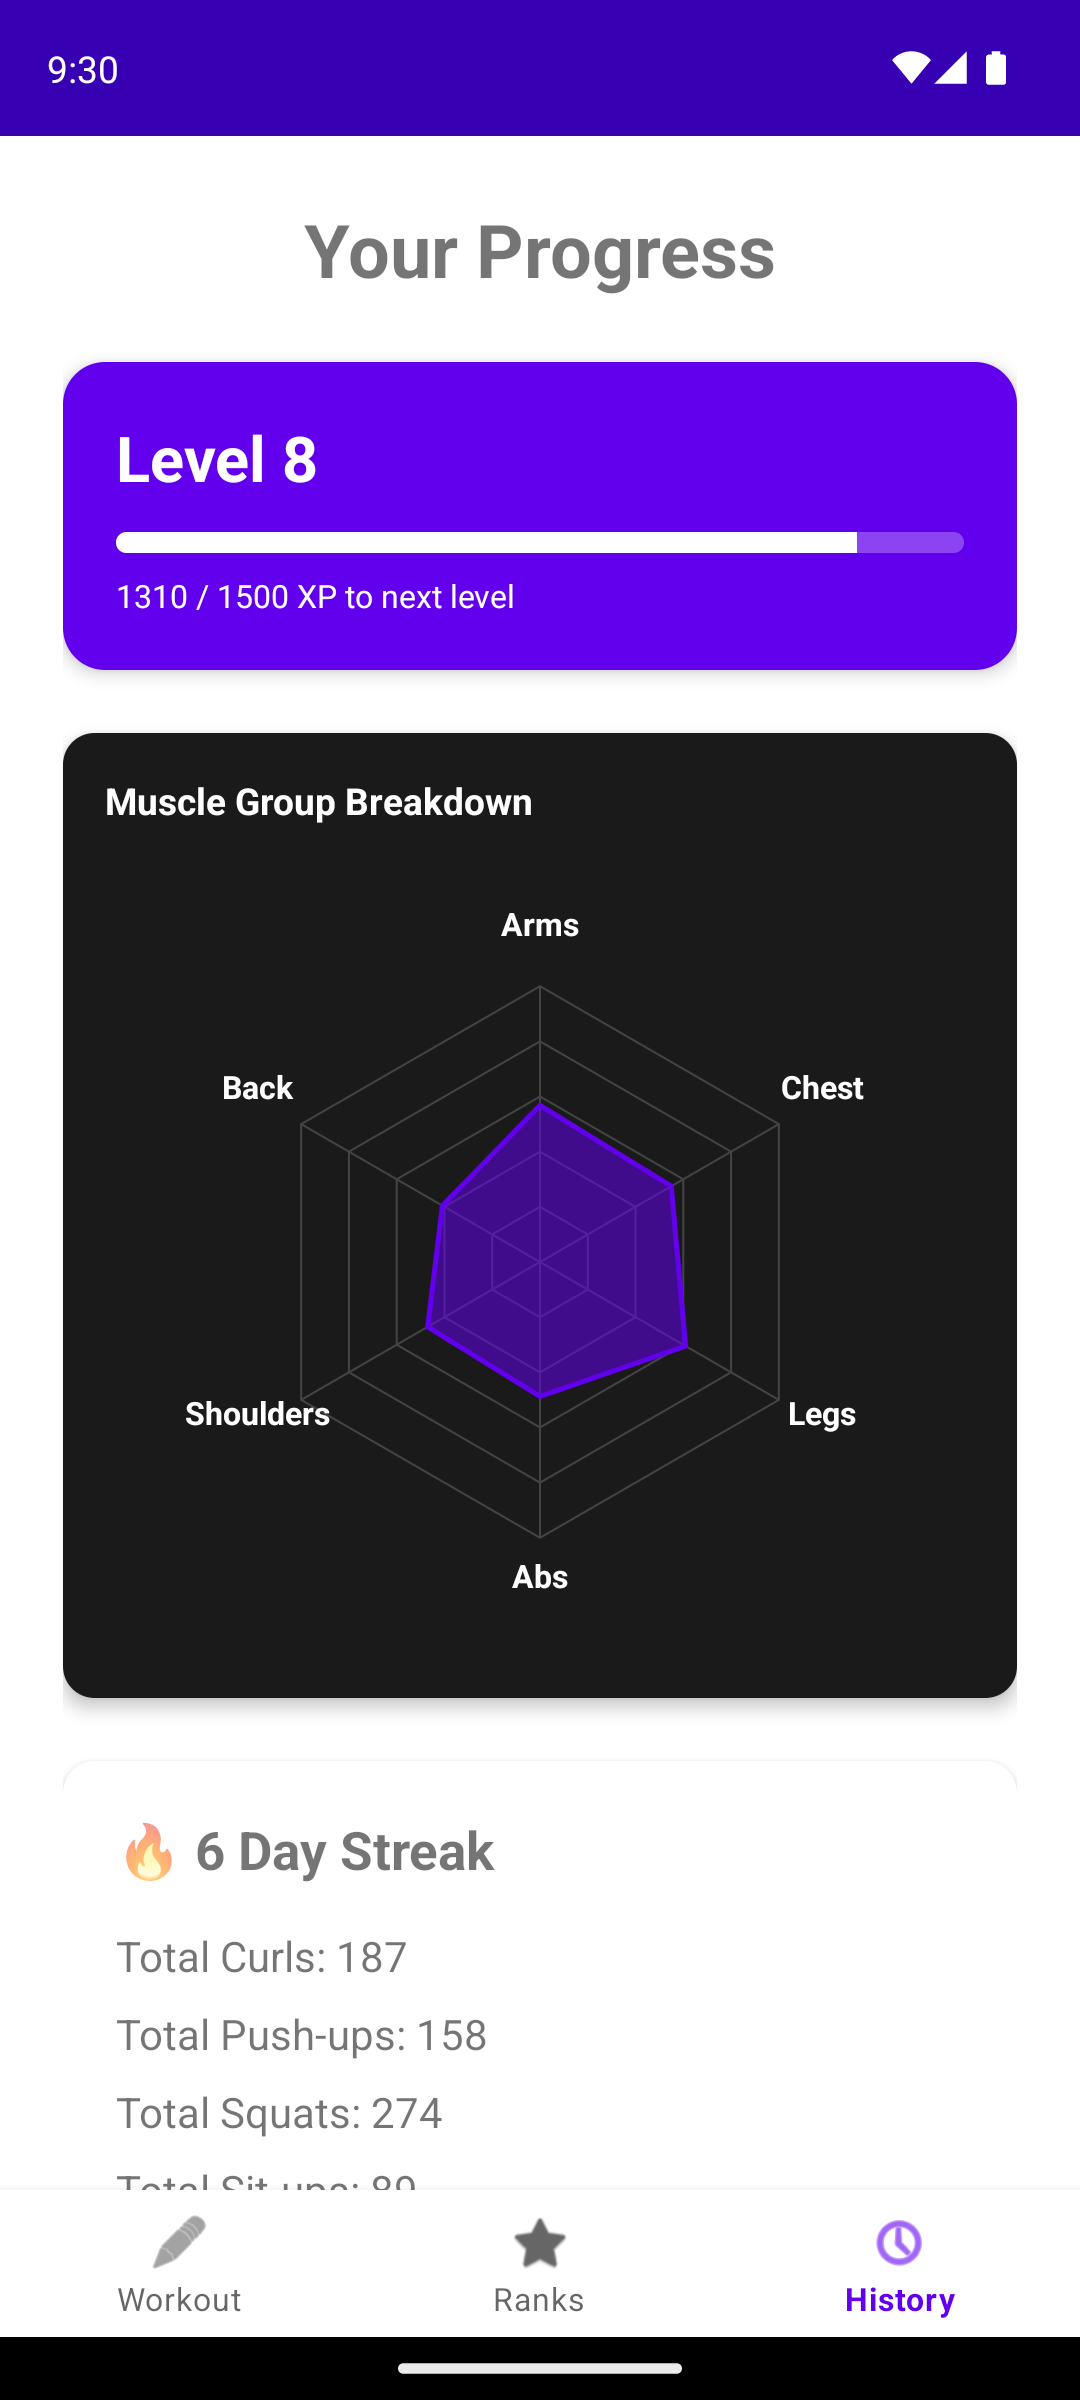
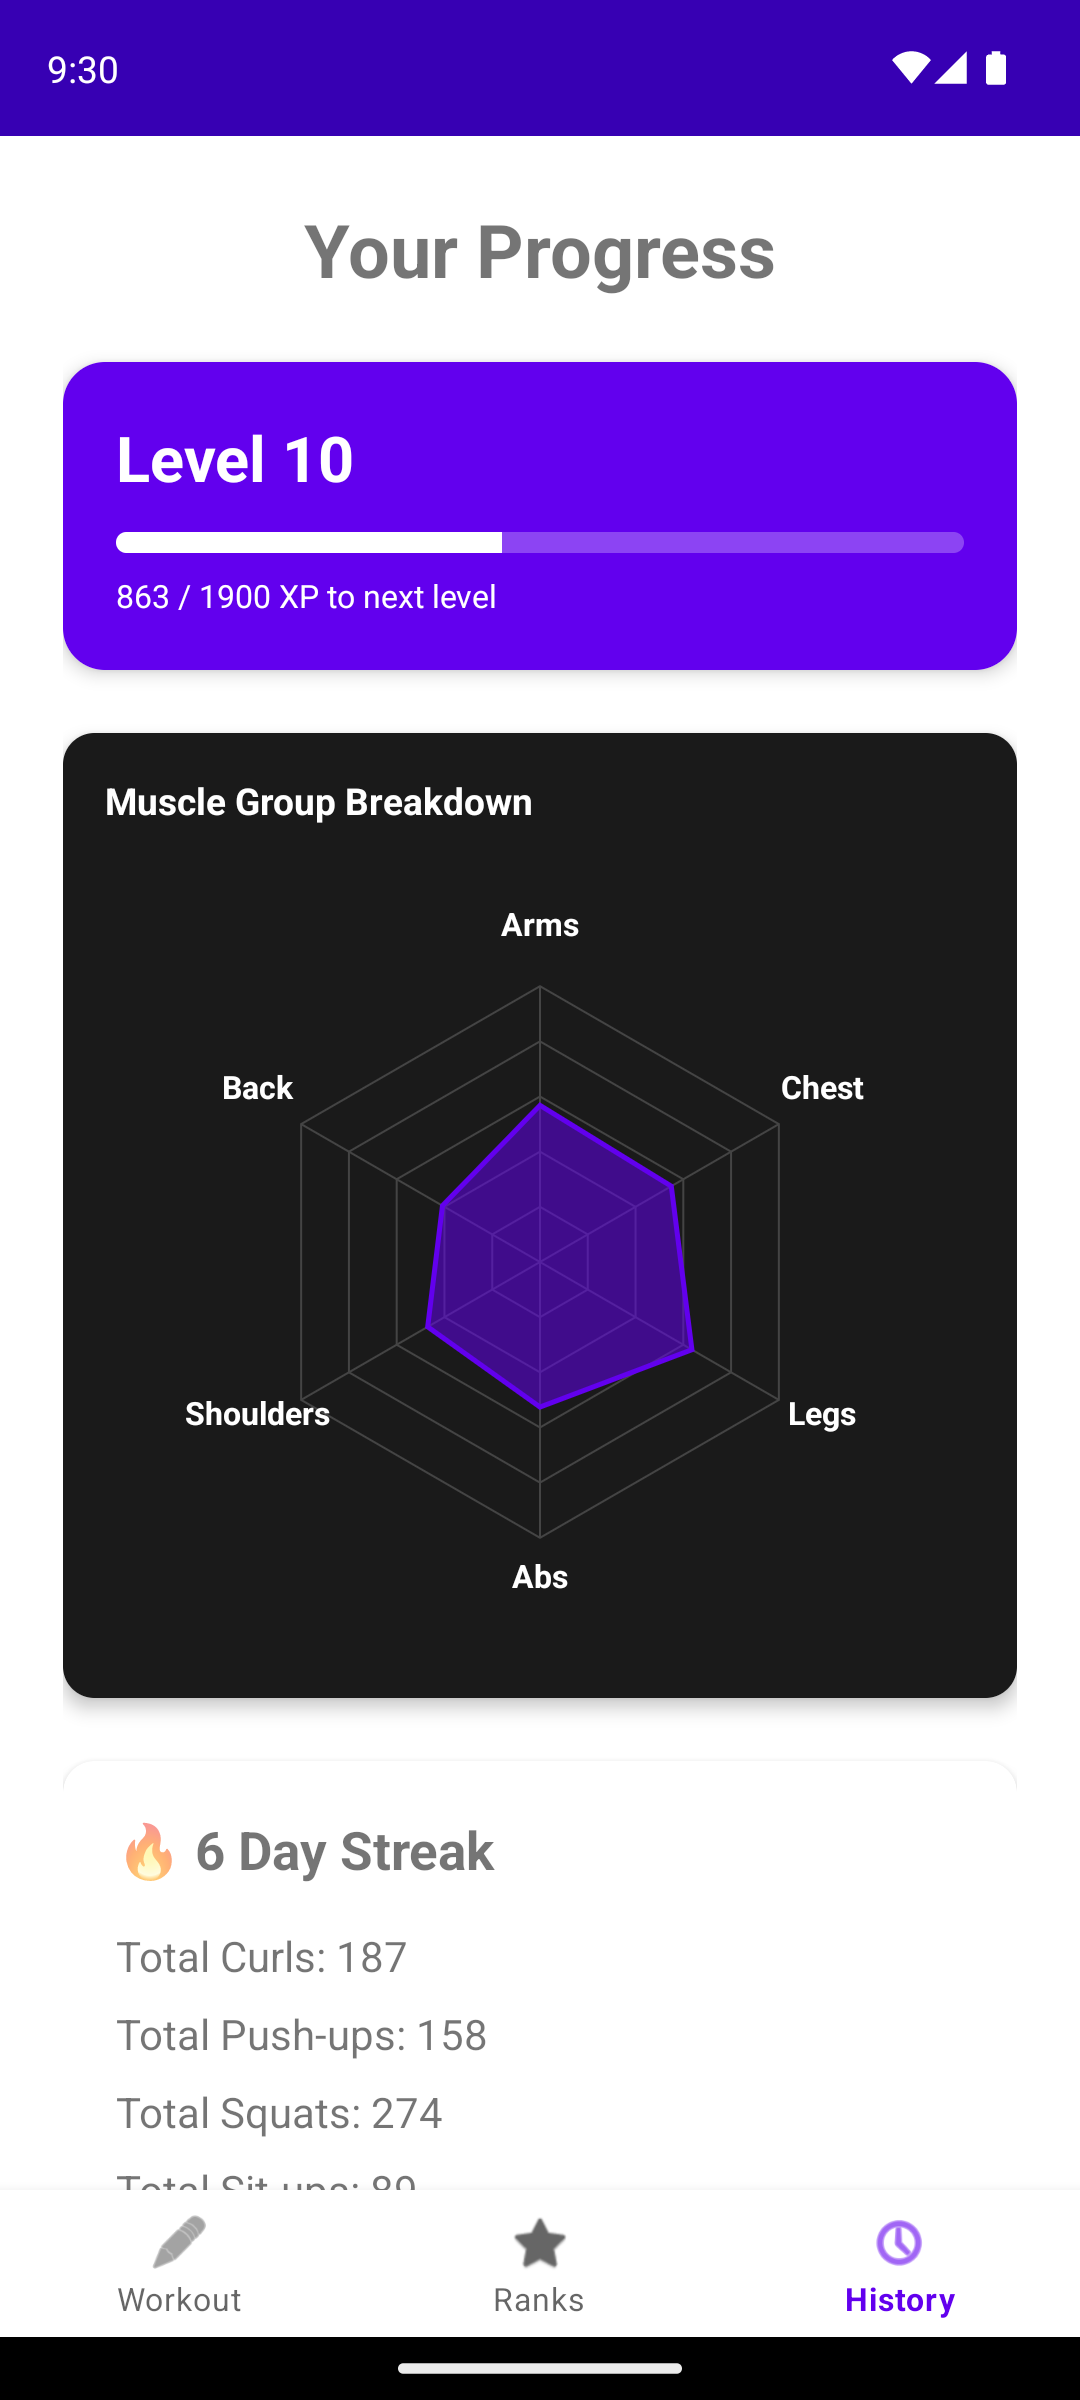
Fix summary crash, height input, and jacks/lunges/plank tracking

diff --git a/app/src/main/java/com/example/exercisetracker/HomeActivity.kt b/app/src/main/java/com/example/exercisetracker/HomeActivity.kt
@@ -2,6 +2,7 @@ package com.example.exercisetracker
 
 import android.content.Context
 import android.content.Intent
+import android.content.SharedPreferences
 import android.os.Bundle
 import android.widget.Button
 import android.widget.RadioButton
@@ -13,6 +14,7 @@ import com.google.android.material.textfield.TextInputEditText
 import com.google.firebase.auth.FirebaseAuth
 import com.google.firebase.firestore.FieldValue
 import com.google.firebase.firestore.FirebaseFirestore
+import kotlin.math.roundToInt
 
 class HomeActivity : AppCompatActivity() {
     private lateinit var auth: FirebaseAuth
@@ -27,7 +29,8 @@ class HomeActivity : AppCompatActivity() {
 
         val usernameInput = findViewById<TextInputEditText>(R.id.usernameInput)
         val weightInput = findViewById<TextInputEditText>(R.id.weightInput)
-        val heightInput = findViewById<TextInputEditText>(R.id.heightInput)
+        val heightFeetInput = findViewById<TextInputEditText>(R.id.heightFeetInput)
+        val heightInchesInput = findViewById<TextInputEditText>(R.id.heightInchesInput)
         val ageInput = findViewById<TextInputEditText>(R.id.ageInput)
         val genderGroup = findViewById<RadioGroup>(R.id.genderGroup)
 
@@ -39,7 +42,9 @@ class HomeActivity : AppCompatActivity() {
         val sharedPrefs = getSharedPreferences("UserProfile", Context.MODE_PRIVATE)
         auth.currentUser?.let { usernameInput.setText(Username.get(this, it.uid)) }
         weightInput.setText(sharedPrefs.getString("WEIGHT", "130"))
-        heightInput.setText(sharedPrefs.getString("HEIGHT", "5.6"))
+        val (savedFeet, savedInches) = loadHeight(sharedPrefs)
+        heightFeetInput.setText(savedFeet)
+        heightInchesInput.setText(savedInches)
         ageInput.setText(sharedPrefs.getString("AGE", "18"))
         val savedGender = sharedPrefs.getString("GENDER", "male")
         if (savedGender == "female") {
@@ -76,11 +81,15 @@ class HomeActivity : AppCompatActivity() {
 
         nextButton.setOnClickListener {
             val weightStr = weightInput.text.toString()
-            val heightStr = heightInput.text.toString()
+            val feetStr = heightFeetInput.text.toString()
+            val inchesStr = heightInchesInput.text.toString()
             val ageStr = ageInput.text.toString()
 
             val weight = weightStr.toFloatOrNull() ?: 130f
-            val height = heightStr.toFloatOrNull() ?: 5.6f
+            val feet = feetStr.toIntOrNull() ?: 5
+            val inches = (inchesStr.toIntOrNull() ?: 0).coerceIn(0, 11)
+            // MainActivity takes height as decimal feet
+            val height = feet + inches / 12f
             val age = ageStr.toIntOrNull() ?: 18
 
             val selectedGenderId = genderGroup.checkedRadioButtonId
@@ -89,7 +98,9 @@ class HomeActivity : AppCompatActivity() {
             // Save values for next time
             sharedPrefs.edit().apply {
                 putString("WEIGHT", weightStr)
-                putString("HEIGHT", heightStr)
+                putString("HEIGHT_FT", feetStr)
+                putString("HEIGHT_IN", inchesStr)
+                remove("HEIGHT")
                 putString("AGE", ageStr)
                 putString("GENDER", gender)
                 apply()
@@ -117,6 +128,17 @@ class HomeActivity : AppCompatActivity() {
         }
     }
 
+    // Height used to be one decimal-feet field ("5.6"); older saves are converted to feet + inches
+    private fun loadHeight(prefs: SharedPreferences): Pair<String, String> {
+        val feet = prefs.getString("HEIGHT_FT", null)
+        val inches = prefs.getString("HEIGHT_IN", null)
+        if (feet != null && inches != null) return feet to inches
+
+        val legacyFeet = prefs.getString("HEIGHT", null)?.toFloatOrNull() ?: return "5" to "6"
+        val totalInches = (legacyFeet * 12).roundToInt()
+        return (totalInches / 12).toString() to (totalInches % 12).toString()
+    }
+
     private fun fetchQuickStats() {
         val user = auth.currentUser ?: return
 
@@ -135,6 +157,8 @@ class HomeActivity : AppCompatActivity() {
                     totalReps += (document.getLong("squats") ?: 0).toInt()
                     totalReps += (document.getLong("situps") ?: 0).toInt()
                     totalReps += (document.getLong("overhead") ?: 0).toInt()
+                    totalReps += (document.getLong("jacks") ?: 0).toInt()
+                    totalReps += (document.getLong("lunges") ?: 0).toInt()
 
                     totalCalories += document.getDouble("calories") ?: 0.0
                     scoreSum += (document.getLong("overallScore") ?: 0).toInt()

diff --git a/app/src/main/java/com/example/exercisetracker/MainActivity.kt b/app/src/main/java/com/example/exercisetracker/MainActivity.kt
@@ -85,6 +85,10 @@ class MainActivity : AppCompatActivity(), TextToSpeech.OnInitListener {
     private var lastActiveTime = 0L
     private val HIGHLIGHT_DURATION_MS = 5000L
 
+    // Trackers are updated on MediaPipe's result thread but read by endWorkout() on the UI thread
+    private val trackerLock = Any()
+    @Volatile private var workoutEnded = false
+
     companion object {
         private const val TAG = "LimbDetector"
         private const val REQUEST_CODE_PERMISSIONS = 10
@@ -196,6 +200,16 @@ class MainActivity : AppCompatActivity(), TextToSpeech.OnInitListener {
     }
 
     private fun endWorkout() {
+        if (workoutEnded) return
+        // Stop processing frames, then read tracker state under the same lock the result thread uses
+        workoutEnded = true
+        imageAnalyzer?.clearAnalyzer()
+        val intent = synchronized(trackerLock) { buildSummaryIntent() }
+        startActivity(intent)
+        finish()
+    }
+
+    private fun buildSummaryIntent(): Intent {
         val allReps = mutableListOf<RepResult>()
         allReps.addAll(curlsTracker.sessionReps)
         allReps.addAll(pushUpTracker.sessionReps)
@@ -204,13 +218,9 @@ class MainActivity : AppCompatActivity(), TextToSpeech.OnInitListener {
         allReps.addAll(overheadTracker.sessionReps)
         allReps.addAll(jumpingJackTracker.sessionReps)
         allReps.addAll(lungeTracker.sessionReps)
-        
-        val totalRepsCount = curlsTracker.curlCount + pushUpTracker.pushUpCount + 
-                             squatTracker.squatCount + situpTracker.situpCount + 
-                             overheadTracker.overheadCount + jumpingJackTracker.jackCount + 
-                             lungeTracker.lungeCount + (plankTracker.totalSeconds / 10) // Plank counts as "reps" for score
-        
-        val overallScore = if (totalRepsCount == 0) -1 else allReps.map { it.score }.average().toInt()
+
+        // Plank has no per-rep form score, so a plank-only session is N/A rather than 0%
+        val overallScore = if (allReps.isEmpty()) -1 else allReps.map { it.score }.average().toInt()
 
         val feedbackCountMap = mutableMapOf<String, Int>()
         allReps.forEach { rep ->
@@ -227,7 +237,7 @@ class MainActivity : AppCompatActivity(), TextToSpeech.OnInitListener {
         val feedbackSummary = if (topFeedback.isEmpty()) "Form: Excellent! Keep it up." 
                               else "Top issues: " + topFeedback.joinToString(", ")
 
-        val intent = Intent(this, SummaryActivity::class.java).apply {
+        return Intent(this, SummaryActivity::class.java).apply {
             putExtra("CURLS", curlsTracker.curlCount)
             putExtra("PUSHUPS", pushUpTracker.pushUpCount)
             putExtra("SQUATS", squatTracker.squatCount)
@@ -240,8 +250,6 @@ class MainActivity : AppCompatActivity(), TextToSpeech.OnInitListener {
             putExtra("OVERALL_SCORE", overallScore)
             putExtra("FEEDBACK_SUMMARY", feedbackSummary)
         }
-        startActivity(intent)
-        finish()
     }
 
     private fun setupPoseLandmarker() {
@@ -267,15 +275,19 @@ class MainActivity : AppCompatActivity(), TextToSpeech.OnInitListener {
     }
 
     private fun processLandmarkerResult(result: PoseLandmarkerResult, image: MPImage) {
-        curlsTracker.update(result)
-        pushUpTracker.update(result)
-        squatTracker.update(result)
-        situpTracker.update(result)
-        overheadTracker.update(result)
-        jumpingJackTracker.update(result)
-        lungeTracker.update(result)
-        plankTracker.update(result)
-        calorieEstimator.update(result, System.currentTimeMillis())
+        if (workoutEnded) return
+
+        synchronized(trackerLock) {
+            curlsTracker.update(result)
+            pushUpTracker.update(result)
+            squatTracker.update(result)
+            situpTracker.update(result)
+            overheadTracker.update(result)
+            jumpingJackTracker.update(result)
+            lungeTracker.update(result)
+            plankTracker.update(result)
+            calorieEstimator.update(result, System.currentTimeMillis())
+        }
         
         val currentTime = System.currentTimeMillis()
         

diff --git a/app/src/main/java/com/example/exercisetracker/HistoryActivity.kt b/app/src/main/java/com/example/exercisetracker/HistoryActivity.kt
@@ -104,6 +104,7 @@ class HistoryActivity : AppCompatActivity() {
                 var totalOverhead = 0
                 var totalJacks = 0
                 var totalLunges = 0
+                var totalPlank = 0
                 var totalCalories = 0.0
                 var totalXp = 0
                 var scoreSum = 0
@@ -119,20 +120,20 @@ class HistoryActivity : AppCompatActivity() {
                     totalSquats += workout.squats
                     totalSitups += workout.situps
                     totalOverhead += workout.overhead
-                    
-                    // Note: You need to update the Workout data class to include these new ones
-                    // totalJacks += workout.jacks
-                    // totalLunges += workout.lunges
-                    
+                    totalJacks += workout.jacks
+                    totalLunges += workout.lunges
+                    totalPlank += workout.plank
+
                     totalCalories += workout.calories
-                    
+
                     if (workout.overallScore != -1) {
                         scoreSum += workout.overallScore
                         validScoreCount++
                     }
-                    
+
                     val qualityFactor = if (workout.overallScore == -1) 0.5 else workout.overallScore / 100.0
-                    val sessionReps = workout.curls + workout.pushups + workout.squats + workout.situps + workout.overhead
+                    // Plank counts as one rep per 10 seconds held
+                    val sessionReps = workout.totalReps + workout.plank / 10
                     totalXp += (sessionReps * 10 * qualityFactor).toInt()
 
                     workout.timestamp?.let { 
@@ -160,8 +161,8 @@ class HistoryActivity : AppCompatActivity() {
                 muscleChart.setStats(
                     arms = LevelingUtils.getMuscleProgress(totalCurls),
                     chest = LevelingUtils.getMuscleProgress(totalPushups),
-                    legs = LevelingUtils.getMuscleProgress(totalSquats),
-                    abs = LevelingUtils.getMuscleProgress(totalSitups),
+                    legs = LevelingUtils.getMuscleProgress(totalSquats + totalLunges),
+                    abs = LevelingUtils.getMuscleProgress(totalSitups + totalPlank / 10),
                     shoulders = LevelingUtils.getMuscleProgress(totalOverhead),
                     back = LevelingUtils.getMuscleProgress((totalCalories / 10).toInt())
                 )
@@ -171,6 +172,9 @@ class HistoryActivity : AppCompatActivity() {
                 findViewById<TextView>(R.id.totalSquats).text = "Total Squats: $totalSquats"
                 findViewById<TextView>(R.id.totalSitups).text = "Total Sit-ups: $totalSitups"
                 findViewById<TextView>(R.id.totalOverhead).text = "Total Overhead Press: $totalOverhead"
+                findViewById<TextView>(R.id.totalJacks).text = "Total Jumping Jacks: $totalJacks"
+                findViewById<TextView>(R.id.totalLunges).text = "Total Lunges: $totalLunges"
+                findViewById<TextView>(R.id.totalPlank).text = "Total Plank: ${formatPlankTime(totalPlank)}"
                 findViewById<TextView>(R.id.totalCalories).text = "Total Calories: %.1f kcal".format(totalCalories)
                 findViewById<TextView>(R.id.avgQualityScore).text = "Avg Quality Score: $avgScore%"
             }

diff --git a/app/src/main/java/com/example/exercisetracker/SummaryActivity.kt b/app/src/main/java/com/example/exercisetracker/SummaryActivity.kt
@@ -7,7 +7,7 @@ import android.widget.Button
 import android.widget.TextView
 import android.widget.Toast
 import androidx.appcompat.app.AppCompatActivity
-import com.google.android.material.materialswitch.MaterialSwitch
+import com.google.android.material.switchmaterial.SwitchMaterial
 import com.google.firebase.auth.FirebaseAuth
 import com.google.firebase.firestore.FirebaseFirestore
 import com.google.firebase.firestore.FieldValue
@@ -43,15 +43,18 @@ class SummaryActivity : AppCompatActivity() {
             scoreTextView.text = "Overall Score: $overallScore%"
         }
 
-        findViewById<TextView>(R.id.curlsText).text = "Curls: $curls"
-        findViewById<TextView>(R.id.pushupsText).text = "Push-ups: $pushups"
-        findViewById<TextView>(R.id.squatsText).text = "Squats: $squats"
-        findViewById<TextView>(R.id.situpsText).text = "Sit-ups: $situps"
-        findViewById<TextView>(R.id.overheadText).text = "Overhead Press: $overhead"
+        // Only list what was actually done this session
+        val breakdown = listOf(
+            "Push-ups" to pushups, "Squats" to squats, "Sit-ups" to situps, "Lunges" to lunges,
+            "Curls" to curls, "Overhead Press" to overhead, "Jumping Jacks" to jacks
+        ).filter { it.second > 0 }.map { (name, count) -> "$name: $count" }.toMutableList()
+        if (plank > 0) breakdown.add("Plank: ${formatPlankTime(plank)}")
+        findViewById<TextView>(R.id.exerciseBreakdownText).text =
+            if (breakdown.isEmpty()) "No reps recorded" else breakdown.joinToString("\n")
         findViewById<TextView>(R.id.caloriesText).text = "Total Calories: %.1f kcal".format(calories)
         findViewById<TextView>(R.id.feedbackSummaryText).text = feedbackSummary
 
-        val leaderboardSwitch = findViewById<MaterialSwitch>(R.id.leaderboardSwitch)
+        val leaderboardSwitch = findViewById<SwitchMaterial>(R.id.leaderboardSwitch)
 
         findViewById<Button>(R.id.saveButton).setOnClickListener {
             if (isRateLimited()) {

diff --git a/app/src/main/java/com/example/exercisetracker/WorkoutAdapter.kt b/app/src/main/java/com/example/exercisetracker/WorkoutAdapter.kt
@@ -6,6 +6,7 @@ import android.view.ViewGroup
 import android.widget.ImageButton
 import android.widget.TextView
 import androidx.recyclerview.widget.RecyclerView
+import com.google.firebase.firestore.Exclude
 import java.text.SimpleDateFormat
 import java.util.*
 
@@ -16,10 +17,18 @@ data class Workout(
     val squats: Int = 0,
     val situps: Int = 0,
     val overhead: Int = 0,
+    val jacks: Int = 0,
+    val lunges: Int = 0,
+    val plank: Int = 0, // seconds
     val calories: Double = 0.0,
     val overallScore: Int = 0,
     val timestamp: com.google.firebase.Timestamp? = null
-)
+) {
+    // Rep-based exercises only; plank is time-based
+    @get:Exclude
+    val totalReps: Int
+        get() = curls + pushups + squats + situps + overhead + jacks + lunges
+}
 
 class WorkoutAdapter(
     private var workouts: List<Workout>,
@@ -40,7 +49,7 @@ class WorkoutAdapter(
 
     override fun onBindViewHolder(holder: WorkoutViewHolder, position: Int) {
         val workout = workouts[position]
-        
+
         val sdf = SimpleDateFormat("MMM dd, yyyy - HH:mm", Locale.getDefault())
         val dateStr = workout.timestamp?.toDate()?.let { sdf.format(it) } ?: "Unknown Date"
         holder.dateText.text = dateStr
@@ -51,8 +60,11 @@ class WorkoutAdapter(
         if (workout.squats > 0) details.add("Squats: ${workout.squats}")
         if (workout.situps > 0) details.add("Situps: ${workout.situps}")
         if (workout.overhead > 0) details.add("Overhead: ${workout.overhead}")
+        if (workout.jacks > 0) details.add("Jacks: ${workout.jacks}")
+        if (workout.lunges > 0) details.add("Lunges: ${workout.lunges}")
+        if (workout.plank > 0) details.add("Plank: ${formatPlankTime(workout.plank)}")
         details.add("Calories: %.1f".format(workout.calories))
-        
+
         holder.detailsText.text = details.joinToString(", ")
         holder.scoreText.text = if (workout.overallScore == -1) "Score: N/A" else "Score: ${workout.overallScore}%"
 

diff --git a/app/src/main/java/com/example/exercisetracker/ExerciseMetrics.kt b/app/src/main/java/com/example/exercisetracker/ExerciseMetrics.kt
@@ -6,6 +6,10 @@ data class RepResult(
     val feedback: List<String> = emptyList()
 )
 
+// Plank is tracked in seconds; show it as m:ss once it passes a minute
+fun formatPlankTime(seconds: Int): String =
+    if (seconds < 60) "${seconds}s" else "%d:%02d".format(seconds / 60, seconds % 60)
+
 class WorkoutSession {
     private val allReps = mutableListOf<RepResult>()
 

diff --git a/README.md b/README.md
@@ -106,7 +106,6 @@ Camera frames are processed on the phone and are never recorded or uploaded. Whe
 
 ## Roadmap
 
-- Show jumping jacks, lunges and plank time on the summary and history screens (they're already tracked and saved)
 - Hook up achievements. The milestone logic is written but doesn't have a screen yet.
 - Show levels on the leaderboard
 - Unit tests for the rep trackers
